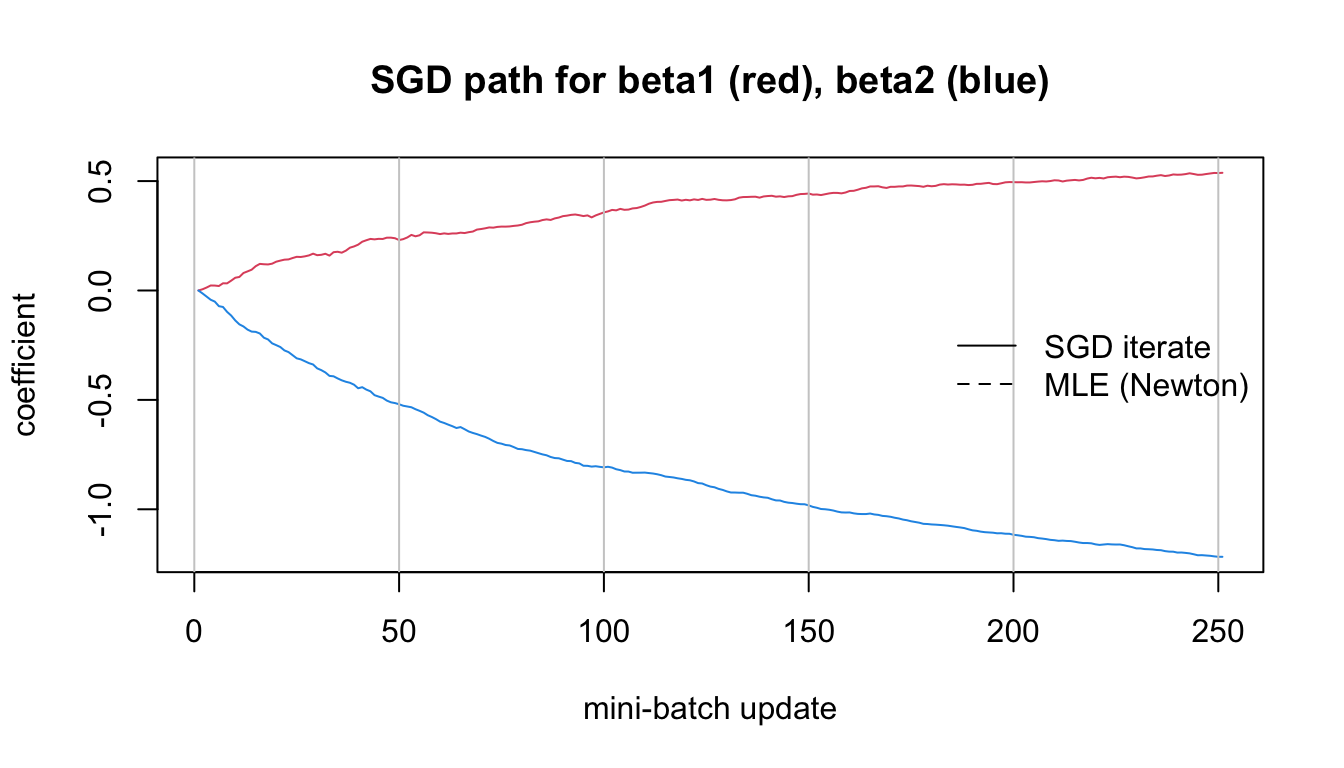
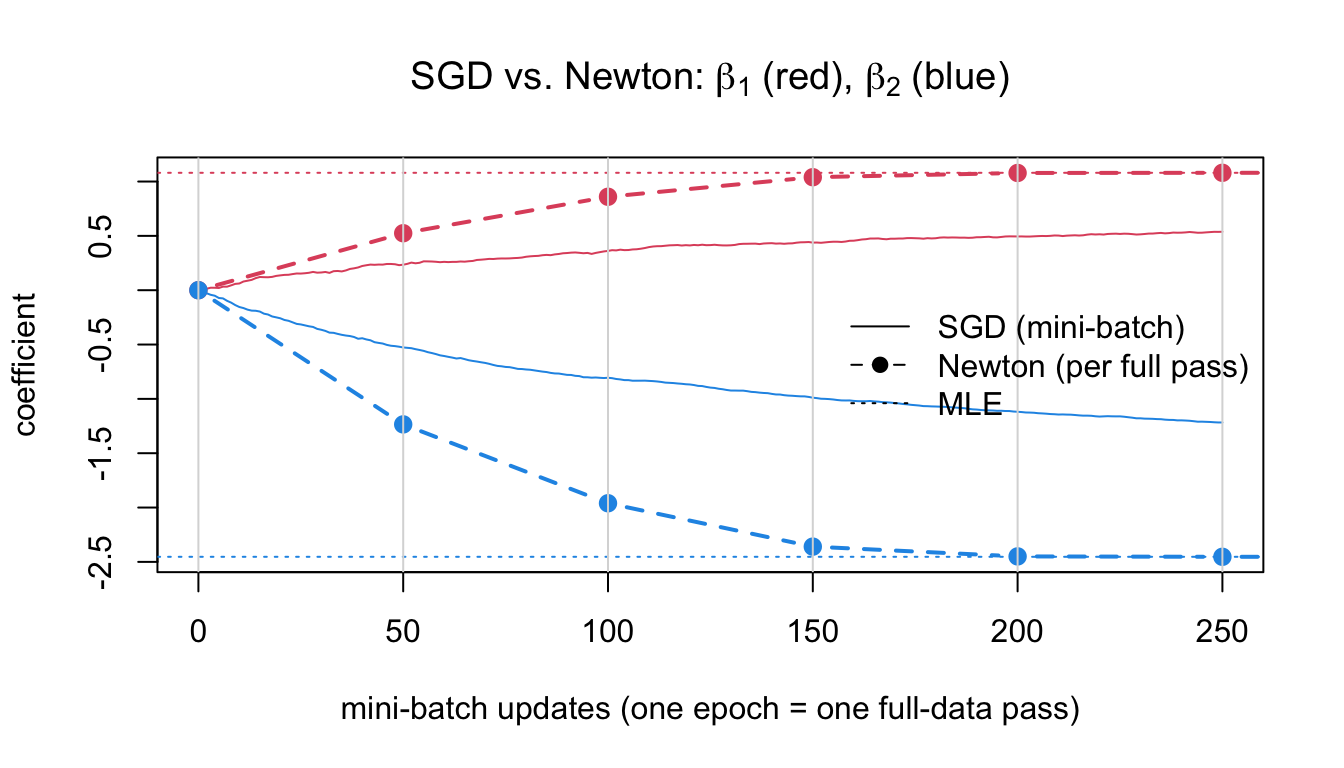
Add slide index page and disable Jekyll for GitHub Pages
Adds index.html linking to all rendered lecture decks and a
.nojekyll file so GitHub Pages serves Quarto's underscore-prefixed
asset folders instead of stripping them.

diff --git a/Lec 05 MLE.html b/Lec 05 MLE.html
@@ -637,12 +637,13 @@ fisher 1.469493    5</code></pre>
 <p><strong>Fisher scoring</strong> replaces <span class="math inline">-\nabla^2\ell(\theta_k)</span> by the expected information <span class="math inline">nI(\theta_k)</span>: <span class="math display">\theta_{k+1} = \theta_k + \big[nI(\theta_k)\big]^{-1}\nabla\ell(\theta_k).</span></p>
 <p>Each iteration costs one <span class="math inline">p \times p</span> linear solve — <span class="math inline">O(p^3)</span> — fine for <span class="math inline">p</span> in the hundreds, expensive for <span class="math inline">p</span> in the millions.</p>
 </section>
-<section id="example-logistic-regression" class="slide level2">
+<section id="example-logistic-regression" class="slide level2 smaller">
 <h2>Example: Logistic Regression</h2>
 <p><span class="math inline">y_i \mid x_i \sim \mathrm{Bern}(\pi_i)</span> with <span class="math inline">\pi_i = \dfrac{e^{\eta_i}}{1 + e^{\eta_i}} = \dfrac{1}{1 + e^{-\eta_i}}</span>, <span class="math inline">\eta_i = x_i'\beta</span>, <span class="math inline">x_i = (1, x_{i1}, \ldots, x_{ip})'</span>.</p>
 <p><span class="math display">L(\beta) = \prod_{i=1}^n \pi_i^{y_i}(1-\pi_i)^{1-y_i}
 = \prod_{i=1}^n \frac{e^{y_i\eta_i}}{1 + e^{\eta_i}}</span> <span class="math display">\ell(\beta) = \sum_{i=1}^n \big[y_i\,x_i'\beta - \log(1 + e^{x_i'\beta})\big]</span></p>
 <p>Using <span class="math inline">\dfrac{\partial}{\partial\beta}\log(1 + e^{x_i'\beta}) = \pi_i x_i</span> and <span class="math inline">\dfrac{\partial\pi_i}{\partial\beta} = \pi_i(1-\pi_i)x_i</span>: <span class="math display">\nabla\ell(\beta) = \sum_{i=1}^n (y_i - \pi_i)\,x_i = X'(y - \pi), \qquad
+</span> <span class="math display">
 \nabla^2\ell(\beta) = -\sum_{i=1}^n \pi_i(1-\pi_i)\,x_i x_i' = -X'WX,</span> with <span class="math inline">W = \mathrm{diag}\big(\pi_i(1-\pi_i)\big)</span>.</p>
 </section>
 <section id="logistic-regression-newton-fisher-scoring-irls" class="slide level2">
@@ -650,7 +651,9 @@ fisher 1.469493    5</code></pre>
 <ul>
 <li><span class="math inline">-\nabla^2\ell = X'WX</span> is positive semi-definite, so <span class="math inline">\ell</span> is <strong>concave</strong>: any stationary point is the global maximum.</li>
 <li>The Hessian does not involve <span class="math inline">y</span>, so its expectation equals itself: <strong>Newton–Raphson and Fisher scoring coincide</strong>.</li>
-<li>The update <span class="math display">\beta_{k+1} = \beta_k + (X'W_kX)^{-1}X'(y - \pi_k) = (X'W_kX)^{-1}X'W_k z_k, \qquad z_k = X\beta_k + W_k^{-1}(y - \pi_k),</span> is a weighted least squares fit of the <em>working response</em> <span class="math inline">z_k</span>: <strong>iteratively reweighted least squares (IRLS)</strong>, which is how <code>glm()</code> fits all generalized linear models.</li>
+<li>The update <span class="math display">\beta_{k+1} = \beta_k + (X'W_kX)^{-1}X'(y - \pi_k) = (X'W_kX)^{-1}X'W_k z_k,
+</span> <span class="math display">
+z_k = X\beta_k + W_k^{-1}(y - \pi_k),</span> is a weighted least squares fit of the <em>working response</em> <span class="math inline">z_k</span>: <strong>iteratively reweighted least squares (IRLS)</strong>, which is how <code>glm()</code> fits all generalized linear models.</li>
 <li>Caveat: if the classes are perfectly separable, <span class="math inline">\ell</span> increases forever and the MLE does not exist (<span class="math inline">\|\hat\beta\| \to \infty</span>).</li>
 </ul>
 </section>
@@ -664,12 +667,14 @@ fisher 1.469493    5</code></pre>
 <span id="cb31-5"><a href=""></a>hess   <span class="ot">&lt;-</span> <span class="cf">function</span>(b) { p <span class="ot">&lt;-</span> <span class="fu">plogis</span>(X <span class="sc">%*%</span> b); <span class="sc">-</span><span class="fu">crossprod</span>(X, X <span class="sc">*</span> <span class="fu">drop</span>(p <span class="sc">*</span> (<span class="dv">1</span> <span class="sc">-</span> p))) }</span>
 <span id="cb31-6"><a href=""></a></span>
 <span id="cb31-7"><a href=""></a>newton_mv <span class="ot">&lt;-</span> <span class="cf">function</span>(grad, hess, b0, <span class="at">tol =</span> <span class="fl">1e-8</span>, <span class="at">maxit =</span> <span class="dv">50</span>) {</span>
-<span id="cb31-8"><a href=""></a>  <span class="cf">for</span> (k <span class="cf">in</span> <span class="dv">1</span><span class="sc">:</span>maxit) {</span>
-<span id="cb31-9"><a href=""></a>    b1 <span class="ot">&lt;-</span> b0 <span class="sc">-</span> <span class="fu">solve</span>(<span class="fu">hess</span>(b0), <span class="fu">grad</span>(b0))</span>
-<span id="cb31-10"><a href=""></a>    <span class="cf">if</span> (<span class="fu">max</span>(<span class="fu">abs</span>(b1 <span class="sc">-</span> b0)) <span class="sc">&lt;</span> tol) <span class="fu">return</span>(<span class="fu">list</span>(<span class="at">est =</span> <span class="fu">drop</span>(b1), <span class="at">iter =</span> k, <span class="at">se =</span> <span class="fu">sqrt</span>(<span class="fu">diag</span>(<span class="fu">solve</span>(<span class="sc">-</span><span class="fu">hess</span>(b1))))))</span>
-<span id="cb31-11"><a href=""></a>    b0 <span class="ot">&lt;-</span> b1 }</span>
-<span id="cb31-12"><a href=""></a>}</span>
-<span id="cb31-13"><a href=""></a>fit <span class="ot">&lt;-</span> <span class="fu">newton_mv</span>(grad, hess, <span class="fu">rep</span>(<span class="dv">0</span>, <span class="dv">3</span>)); fit<span class="sc">$</span>iter</span></code></pre></div><button title="Copy to Clipboard" class="code-copy-button"><i class="bi"></i></button></div>
+<span id="cb31-8"><a href=""></a>  path <span class="ot">&lt;-</span> <span class="fu">drop</span>(b0)</span>
+<span id="cb31-9"><a href=""></a>  <span class="cf">for</span> (k <span class="cf">in</span> <span class="dv">1</span><span class="sc">:</span>maxit) {</span>
+<span id="cb31-10"><a href=""></a>    b1 <span class="ot">&lt;-</span> b0 <span class="sc">-</span> <span class="fu">solve</span>(<span class="fu">hess</span>(b0), <span class="fu">grad</span>(b0)); path <span class="ot">&lt;-</span> <span class="fu">rbind</span>(path, <span class="fu">drop</span>(b1))</span>
+<span id="cb31-11"><a href=""></a>    <span class="cf">if</span> (<span class="fu">max</span>(<span class="fu">abs</span>(b1 <span class="sc">-</span> b0)) <span class="sc">&lt;</span> tol)</span>
+<span id="cb31-12"><a href=""></a>      <span class="fu">return</span>(<span class="fu">list</span>(<span class="at">est =</span> <span class="fu">drop</span>(b1), <span class="at">iter =</span> k, <span class="at">se =</span> <span class="fu">sqrt</span>(<span class="fu">diag</span>(<span class="fu">solve</span>(<span class="sc">-</span><span class="fu">hess</span>(b1)))), <span class="at">path =</span> path))</span>
+<span id="cb31-13"><a href=""></a>    b0 <span class="ot">&lt;-</span> b1 }</span>
+<span id="cb31-14"><a href=""></a>}</span>
+<span id="cb31-15"><a href=""></a>fit <span class="ot">&lt;-</span> <span class="fu">newton_mv</span>(grad, hess, <span class="fu">rep</span>(<span class="dv">0</span>, <span class="dv">3</span>)); fit<span class="sc">$</span>iter</span></code></pre></div><button title="Copy to Clipboard" class="code-copy-button"><i class="bi"></i></button></div>
 <div class="cell-output cell-output-stdout">
 <pre><code>[1] 7</code></pre>
 </div>
@@ -799,6 +804,7 @@ glm      0.1337429 0.1511637 0.2228005</code></pre>
 <h2>Conjugate Gradient</h2>
 <p>Fix the zig-zag by making each new direction <strong>conjugate</strong> to the previous ones with respect to the Hessian <span class="math inline">Q</span>: <span class="math inline">d_i'Qd_j = 0</span> for <span class="math inline">i \ne j</span>. For a quadratic <span class="math inline">f(\theta) = \tfrac12\theta'Q\theta - b'\theta</span>, minimizing along <span class="math inline">p</span> such directions reaches the exact minimum in <strong>at most <span class="math inline">p</span> steps</strong>.</p>
 <p>The nonlinear version builds directions from gradients only: <span class="math display">d_0 = -g_0, \qquad d_{k+1} = -g_{k+1} + \beta_k d_k, \qquad
+</span> <span class="math display">
 \beta_k^{FR} = \frac{g_{k+1}'g_{k+1}}{g_k'g_k}\ \text{(Fletcher–Reeves)}, \quad
 \beta_k^{PR} = \frac{g_{k+1}'(g_{k+1} - g_k)}{g_k'g_k}\ \text{(Polak–Ribière)},</span> with <span class="math inline">\theta_{k+1} = \theta_k + \alpha_k d_k</span> from a line search and <span class="math inline">g_k = \nabla f(\theta_k)</span>.</p>
 <ul>
@@ -906,8 +912,8 @@ truth  -0.5000000 1.0000000 -2.000000</code></pre>
 <h2>SGD Trajectory vs.&nbsp;Newton</h2>
 
 <img data-src="Lec-05-MLE_files/figure-revealjs/unnamed-chunk-25-1.png" width="672" class="r-stretch"><ul>
-<li>Newton needed 7 full-data iterations; SGD made 250 cheap updates over 5 epochs and lands near the MLE with residual noise.</li>
-<li>For <span class="math inline">n = 500</span> this is no gain — SGD earns its keep when a single full gradient is prohibitively expensive.</li>
+<li>Newton needed 7 full-data passes; SGD made 250 cheap updates over 5 epochs and lands near the MLE with residual noise.</li>
+<li>Per data pass, Newton is far more efficient here (<span class="math inline">n = 500</span>, <span class="math inline">p = 3</span>); SGD earns its keep when one full gradient — or the <span class="math inline">O(p^3)</span> Hessian solve — is prohibitively expensive.</li>
 </ul>
 </section>
 <section id="summary" class="slide level2">

diff --git a/index.html b/index.html
@@ -1,0 +1,59 @@
+<!DOCTYPE html>
+<html lang="en">
+<head>
+<meta charset="utf-8">
+<title>Elements of Statistical Computation — Slides</title>
+<style>
+  body {
+    font-family: -apple-system, BlinkMacSystemFont, "Segoe UI", Helvetica, Arial, sans-serif;
+    max-width: 760px;
+    margin: 3rem auto;
+    padding: 0 1.5rem;
+    color: #1a1a1a;
+    line-height: 1.5;
+  }
+  h1 {
+    color: #032eee;
+    font-size: 1.8rem;
+    margin-bottom: 0.2rem;
+  }
+  .subtitle {
+    color: #555;
+    margin-top: 0;
+    margin-bottom: 2rem;
+  }
+  ol {
+    padding-left: 1.4rem;
+  }
+  li {
+    margin: 0.6rem 0;
+    font-size: 1.1rem;
+  }
+  a {
+    color: #074bdd;
+    text-decoration: none;
+  }
+  a:hover {
+    text-decoration: underline;
+  }
+</style>
+</head>
+<body>
+<h1>Elements of Statistical Computation</h1>
+<p class="subtitle">Lecture Slides</p>
+<ol>
+  <li><a target="_blank" href="Lec%2003%20arithmetics.html">Computer Arithmetic</a></li>
+  <li><a target="_blank" href="Lec%2004%20Monte%20Carlo.html">Monte Carlo</a></li>
+  <li><a target="_blank" href="Lec%2005%20MLE-old.html">Maximum Likelihood Estimation (old notes)</a></li>
+  <li><a target="_blank" href="Lec%2005%20MLE.html">Maximum Likelihood Estimation</a></li>
+  <li><a target="_blank" href="Lec%2006%20EM%20-%20supp.html">EM Algorithm — Supplement</a></li>
+  <li><a target="_blank" href="Lec%2006%20EM.html">EM Algorithm</a></li>
+  <li><a target="_blank" href="Lec%2007%20bayesian%20inference%20general.html">Bayesian Inference</a></li>
+  <li><a target="_blank" href="Lec%2008%20numerical%20quadrature.html">Numerical Quadrature</a></li>
+  <li><a target="_blank" href="Lec%2009%20Laplace.html">Laplace Approximation</a></li>
+  <li><a target="_blank" href="Lec%2010%20Rejection%20sampling.html">Rejection Sampling</a></li>
+  <li><a target="_blank" href="Lec%2011%20Importance%20Sampling.html">Importance Sampling</a></li>
+  <li><a target="_blank" href="Lec%2011%20MCMC.html">MCMC</a></li>
+</ol>
+</body>
+</html>
